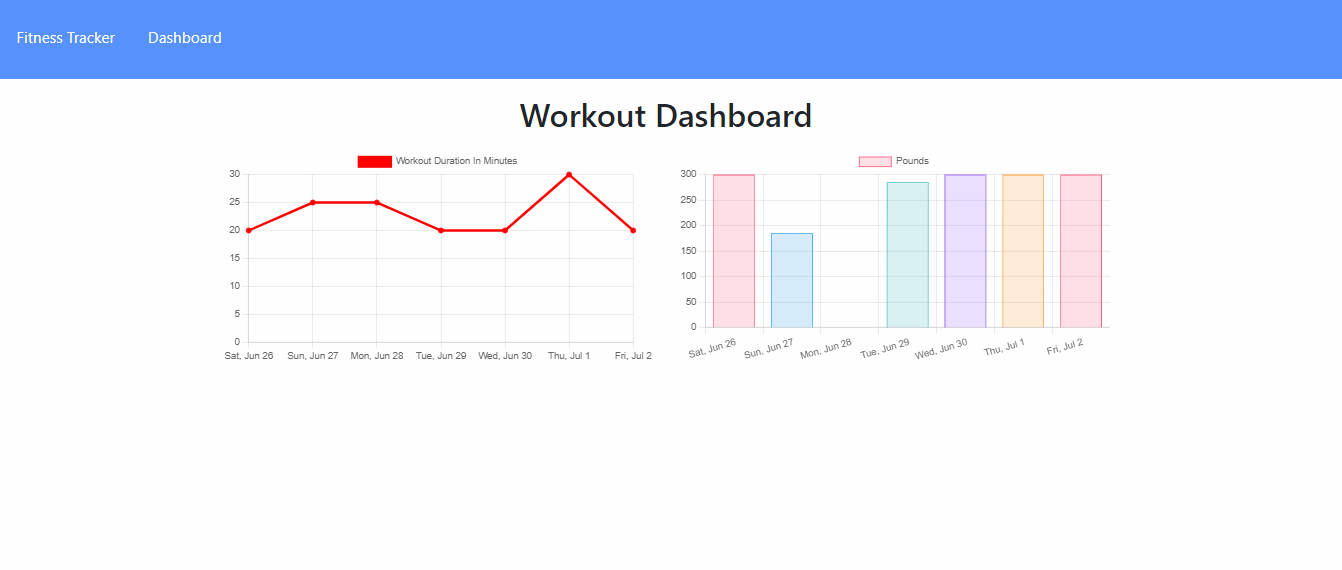
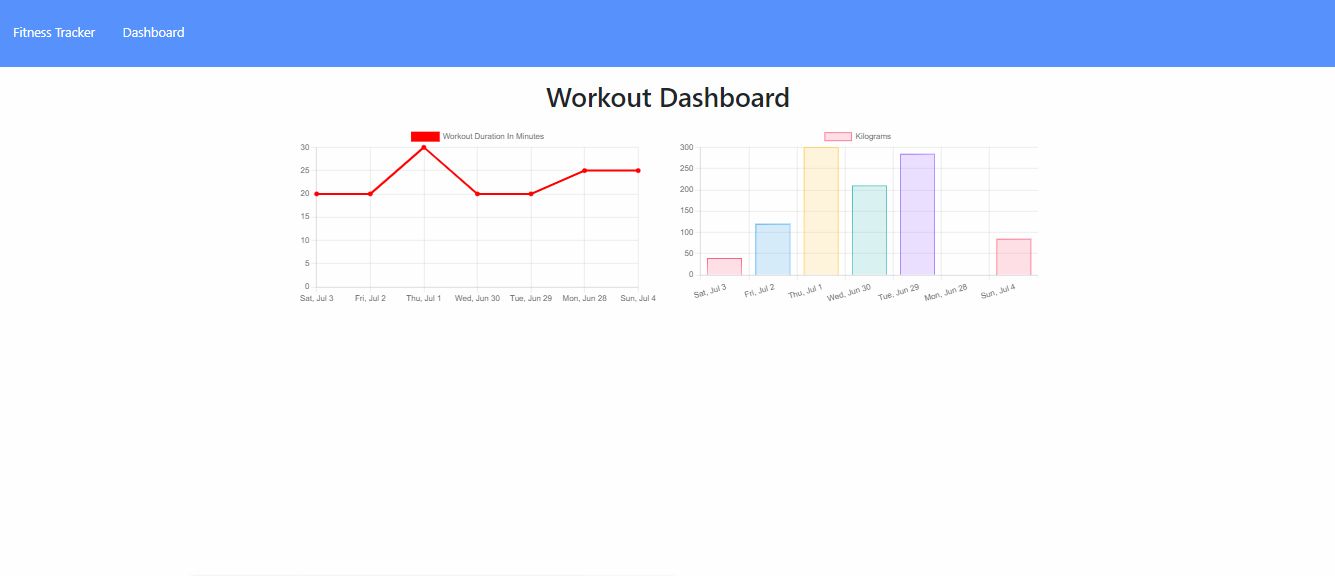
Fixed bugs

diff --git a/routes/workoutRoutes.js b/routes/workoutRoutes.js
@@ -12,8 +12,13 @@ router.get("/api/workouts", async (req, res) => {
 
 router.get("/api/workouts/range", async (req, res) => {
   try {
-    const data = await Workout.find({}).limit(7);
-    res.json(data);
+    const data = await Workout.find({})//.sort({date: -1}).limit(7);
+    const sortedDate = data.sort(function(a,b){
+      // Turn your strings into dates, and then subtract them
+      // to get a value that is either negative, positive, or zero.
+      return new Date(b.date) - new Date(a.date);
+    }).reverse().splice(0, 7)
+    res.json(sortedDate);
   } catch (err) {
     console.log(err);
   }

diff --git a/public/workout.js b/public/workout.js
@@ -12,8 +12,8 @@ async function initWorkout() {
 
     const workoutSummary = {
       date: formatDate(lastWorkout.day),
-      // totalDuration: lastWorkout.totalDuration,
-      totalDuration: totalDuration,
+      totalDuration: lastWorkout.totalDuration,
+      // totalDuration: totalDuration,
       numExercises: lastWorkout.exercises.length,
       ...tallyExercises(lastWorkout.exercises),
     };

diff --git a/models/Workout.js b/models/Workout.js
@@ -35,7 +35,7 @@ const workoutSchema = new mongoose.Schema({
 });
 
 workoutSchema.virtual('fullName').get(function() {
-    return this.exercises[0].weight + this.exercises[0].reps;
+    return this.date + "new date";
   });
 workoutSchema.virtual('totalDuration').get(function() {
     return this.exercises.reduce((acc, curr) => {

diff --git a/public/stats.js b/public/stats.js
@@ -68,7 +68,7 @@ function populateChart(data) {
       labels,
       datasets: [
         {
-          label: 'Pounds',
+          label: 'Kilograms',
           data: pounds,
           backgroundColor: [
             'rgba(255, 99, 132, 0.2)',
